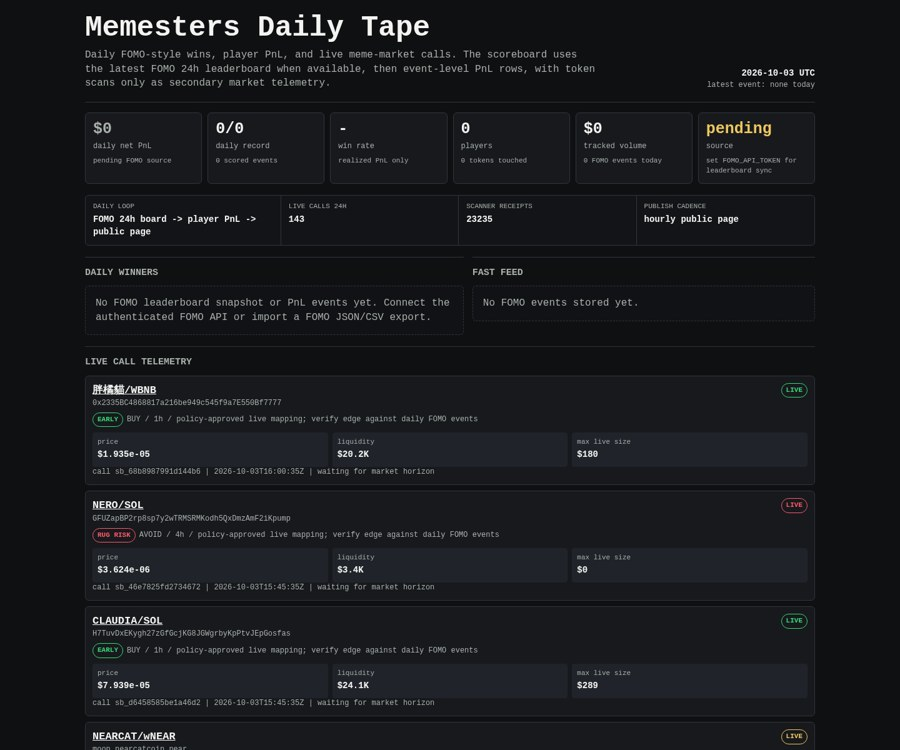
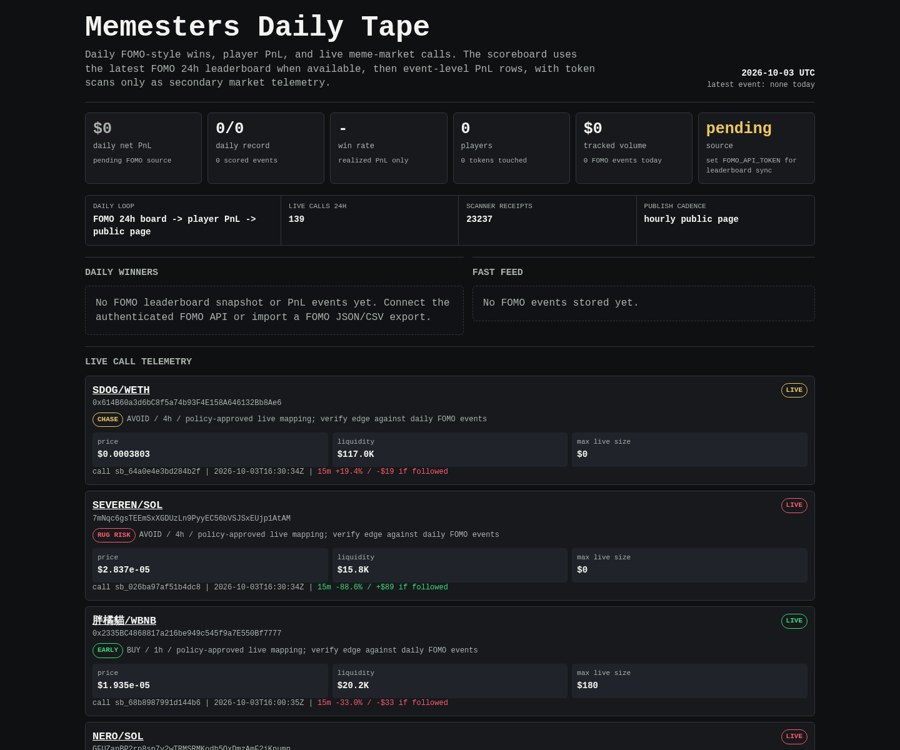
Update Memesters scoreboard

diff --git a/memesters/index.html b/memesters/index.html
@@ -149,8 +149,8 @@
 
     <div class="rail" aria-label="live operating loop">
       <div><span>daily loop</span><b>FOMO 24h board -> player PnL -> public page</b></div>
-      <div><span>live calls 24h</span><b>143</b></div>
-      <div><span>scanner receipts</span><b>23235</b></div>
+      <div><span>live calls 24h</span><b>139</b></div>
+      <div><span>scanner receipts</span><b>23237</b></div>
       <div><span>publish cadence</span><b>hourly public page</b></div>
     </div>
 
@@ -171,6 +171,48 @@
     <article class="receipt">
       <div class="receipt-head">
         <div>
+          <div class="pair"><a href="https://dexscreener.com/robinhood/0x82a211005aa2a93da5c218173da935c155bbcf96">SDOG/WETH</a></div>
+          <div class="addr">0x614B60a3d6bC8f5a74b93F4E158A646132Bb8Ae6</div>
+          <div class="addr policy-line">
+            <span class="badge chase">CHASE</span>
+            <span>AVOID / 4h / policy-approved live mapping; verify edge against daily FOMO events</span>
+          </div>
+        </div>
+        <span class="badge chase">LIVE</span>
+      </div>
+      <div class="receipt-grid">
+        <div class="kv"><span>price</span><b>$0.0003803</b></div>
+        <div class="kv"><span>liquidity</span><b>$117.0K</b></div>
+        <div class="kv"><span>max live size</span><b>$0</b></div>
+      </div>
+      <div class="outcomes">call sb_64a0e4e3bd284b2f | 2026-10-03T16:30:34Z | <span class="negative">15m +19.4% / -$19 if followed</span></div>
+    </article>
+    
+
+    <article class="receipt">
+      <div class="receipt-head">
+        <div>
+          <div class="pair"><a href="https://dexscreener.com/solana/7akwe5nbhghayfetx2golqqv2a4ppg6b7cpjz8889r88">SEVEREN/SOL</a></div>
+          <div class="addr">7mNqc6gsTEEmSxXGDUzLn9PyyEC56bVSJSxEUjp1AtAM</div>
+          <div class="addr policy-line">
+            <span class="badge rug-risk">RUG RISK</span>
+            <span>AVOID / 4h / policy-approved live mapping; verify edge against daily FOMO events</span>
+          </div>
+        </div>
+        <span class="badge rug-risk">LIVE</span>
+      </div>
+      <div class="receipt-grid">
+        <div class="kv"><span>price</span><b>$2.837e-05</b></div>
+        <div class="kv"><span>liquidity</span><b>$15.8K</b></div>
+        <div class="kv"><span>max live size</span><b>$0</b></div>
+      </div>
+      <div class="outcomes">call sb_026ba97af51b4dc8 | 2026-10-03T16:30:34Z | <span class="positive">15m -88.6% / +$89 if followed</span></div>
+    </article>
+    
+
+    <article class="receipt">
+      <div class="receipt-head">
+        <div>
           <div class="pair"><a href="https://dexscreener.com/bsc/0x5aaf3b3ddc2bc24f280b1d6fc948d763dfec2139">胖橘貓/WBNB</a></div>
           <div class="addr">0x2335BC4868817a216be949c545f9a7E550Bf7777</div>
           <div class="addr policy-line">
@@ -185,7 +227,7 @@
         <div class="kv"><span>liquidity</span><b>$20.2K</b></div>
         <div class="kv"><span>max live size</span><b>$180</b></div>
       </div>
-      <div class="outcomes">call sb_68b8987991d144b6 | 2026-10-03T16:00:35Z | waiting for market horizon</div>
+      <div class="outcomes">call sb_68b8987991d144b6 | 2026-10-03T16:00:35Z | <span class="negative">15m -33.0% / -$33 if followed</span></div>
     </article>
     
 
@@ -206,7 +248,7 @@
         <div class="kv"><span>liquidity</span><b>$3.4K</b></div>
         <div class="kv"><span>max live size</span><b>$0</b></div>
       </div>
-      <div class="outcomes">call sb_46e7825fd2734672 | 2026-10-03T15:45:35Z | waiting for market horizon</div>
+      <div class="outcomes">call sb_46e7825fd2734672 | 2026-10-03T15:45:35Z | <span class="positive">15m -7.8% / +$8 if followed</span> | <span class="positive">1h -7.8% / +$8 if followed</span></div>
     </article>
     
 
@@ -227,7 +269,7 @@
         <div class="kv"><span>liquidity</span><b>$24.1K</b></div>
         <div class="kv"><span>max live size</span><b>$289</b></div>
       </div>
-      <div class="outcomes">call sb_d6458585be1a46d2 | 2026-10-03T15:45:35Z | waiting for market horizon</div>
+      <div class="outcomes">call sb_d6458585be1a46d2 | 2026-10-03T15:45:35Z | <span class="positive">15m +330.0% / +$330 if followed</span> | <span class="positive">1h +1513.6% / +$1.5K if followed</span></div>
     </article>
     
 
@@ -248,7 +290,7 @@
         <div class="kv"><span>liquidity</span><b>$53.3K</b></div>
         <div class="kv"><span>max live size</span><b>$0</b></div>
       </div>
-      <div class="outcomes">call sb_1a163a81e6b845dc | 2026-10-03T15:45:35Z | waiting for market horizon</div>
+      <div class="outcomes">call sb_1a163a81e6b845dc | 2026-10-03T15:45:35Z | <span class="negative">15m +41.5% / -$42 if followed</span> | <span class="positive">1h -8.5% / +$9 if followed</span></div>
     </article>
     
 
@@ -269,7 +311,7 @@
         <div class="kv"><span>liquidity</span><b>$12.6K</b></div>
         <div class="kv"><span>max live size</span><b>$0</b></div>
       </div>
-      <div class="outcomes">call sb_09a85f00b2014cfc | 2026-10-03T15:45:34Z | waiting for market horizon</div>
+      <div class="outcomes">call sb_09a85f00b2014cfc | 2026-10-03T15:45:34Z | <span class="positive">15m -35.6% / +$36 if followed</span> | <span class="positive">1h -65.3% / +$65 if followed</span></div>
     </article>
     
 
@@ -290,7 +332,7 @@
         <div class="kv"><span>liquidity</span><b>$16.0K</b></div>
         <div class="kv"><span>max live size</span><b>$117</b></div>
       </div>
-      <div class="outcomes">call sb_013f1850d0fc4aa4 | 2026-10-03T15:30:36Z | <span class="negative">15m -12.6% / -$13 if followed</span></div>
+      <div class="outcomes">call sb_013f1850d0fc4aa4 | 2026-10-03T15:30:36Z | <span class="negative">15m -12.6% / -$13 if followed</span> | <span class="negative">1h -74.1% / -$74 if followed</span></div>
     </article>
     
 
@@ -311,7 +353,7 @@
         <div class="kv"><span>liquidity</span><b>$16.7K</b></div>
         <div class="kv"><span>max live size</span><b>$54</b></div>
       </div>
-      <div class="outcomes">call sb_c311ed7db91a4fca | 2026-10-03T15:30:36Z | <span class="negative">15m -6.1% / -$6 if followed</span></div>
+      <div class="outcomes">call sb_c311ed7db91a4fca | 2026-10-03T15:30:36Z | <span class="negative">15m -6.1% / -$6 if followed</span> | <span class="negative">1h -0.9% / -$1 if followed</span></div>
     </article>
     
 
@@ -332,49 +374,7 @@
         <div class="kv"><span>liquidity</span><b>$24.7K</b></div>
         <div class="kv"><span>max live size</span><b>$0</b></div>
       </div>
-      <div class="outcomes">call sb_77624e3fe1ac41fb | 2026-10-03T15:15:35Z | <span class="negative">15m +147.1% / -$147 if followed</span></div>
-    </article>
-    
-
-    <article class="receipt">
-      <div class="receipt-head">
-        <div>
-          <div class="pair"><a href="https://dexscreener.com/solana/d1mrnssezawcdqypz9haqdsepazypm9ypqxpmrq44gme">INU/USELESS</a></div>
-          <div class="addr">GE4TWUwy7WgnS4WrwErajDYFvj4rxRrbpFiEvreqBozP</div>
-          <div class="addr policy-line">
-            <span class="badge early">EARLY</span>
-            <span>BUY / 1h / policy-approved live mapping; verify edge against daily FOMO events</span>
-          </div>
-        </div>
-        <span class="badge early">LIVE</span>
-      </div>
-      <div class="receipt-grid">
-        <div class="kv"><span>price</span><b>$5.116e-05</b></div>
-        <div class="kv"><span>liquidity</span><b>$21.2K</b></div>
-        <div class="kv"><span>max live size</span><b>$134</b></div>
-      </div>
-      <div class="outcomes">call sb_1ab314d5028a4afc | 2026-10-03T15:15:35Z | <span class="positive">15m +0.5% / +$1 if followed</span></div>
-    </article>
-    
-
-    <article class="receipt">
-      <div class="receipt-head">
-        <div>
-          <div class="pair"><a href="https://dexscreener.com/solana/7fqwpp4kdxbjblrgsspztdungadzkixrottd5m7jhjbm">Chin/SOL</a></div>
-          <div class="addr">CUqmL3KH6ZifP1pcZCxqQ8w2AkkoPVzSnuBdBpezpump</div>
-          <div class="addr policy-line">
-            <span class="badge rug-risk">RUG RISK</span>
-            <span>AVOID / 4h / policy-approved live mapping; verify edge against daily FOMO events</span>
-          </div>
-        </div>
-        <span class="badge rug-risk">LIVE</span>
-      </div>
-      <div class="receipt-grid">
-        <div class="kv"><span>price</span><b>$9.698e-06</b></div>
-        <div class="kv"><span>liquidity</span><b>$6.9K</b></div>
-        <div class="kv"><span>max live size</span><b>$0</b></div>
-      </div>
-      <div class="outcomes">call sb_3236d8b4f423425e | 2026-10-03T15:00:41Z | <span class="negative">15m +3.5% / -$4 if followed</span></div>
+      <div class="outcomes">call sb_77624e3fe1ac41fb | 2026-10-03T15:15:35Z | <span class="negative">15m +147.1% / -$147 if followed</span> | <span class="negative">1h +94.8% / -$95 if followed</span></div>
     </article>
     
     </section>
